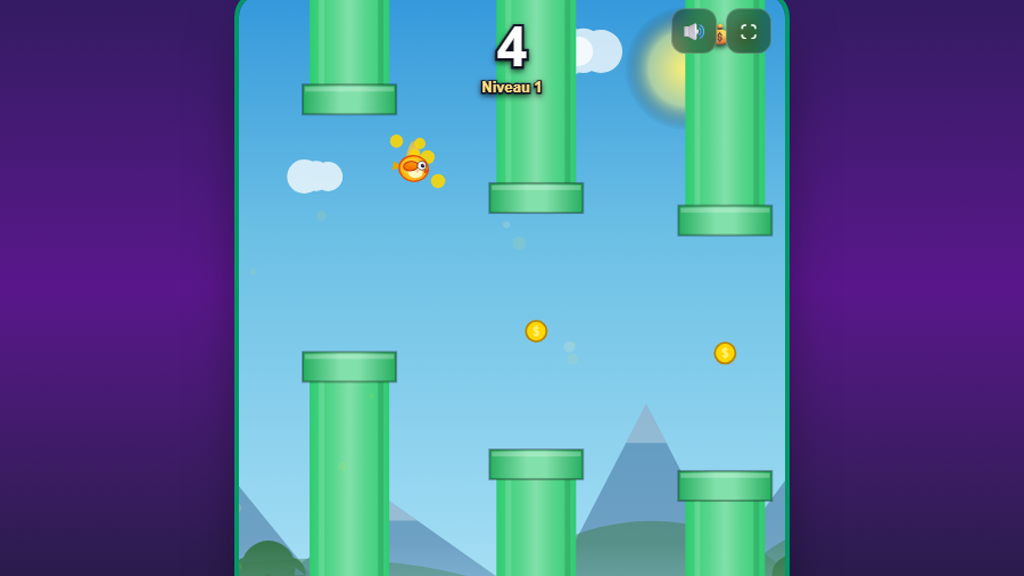
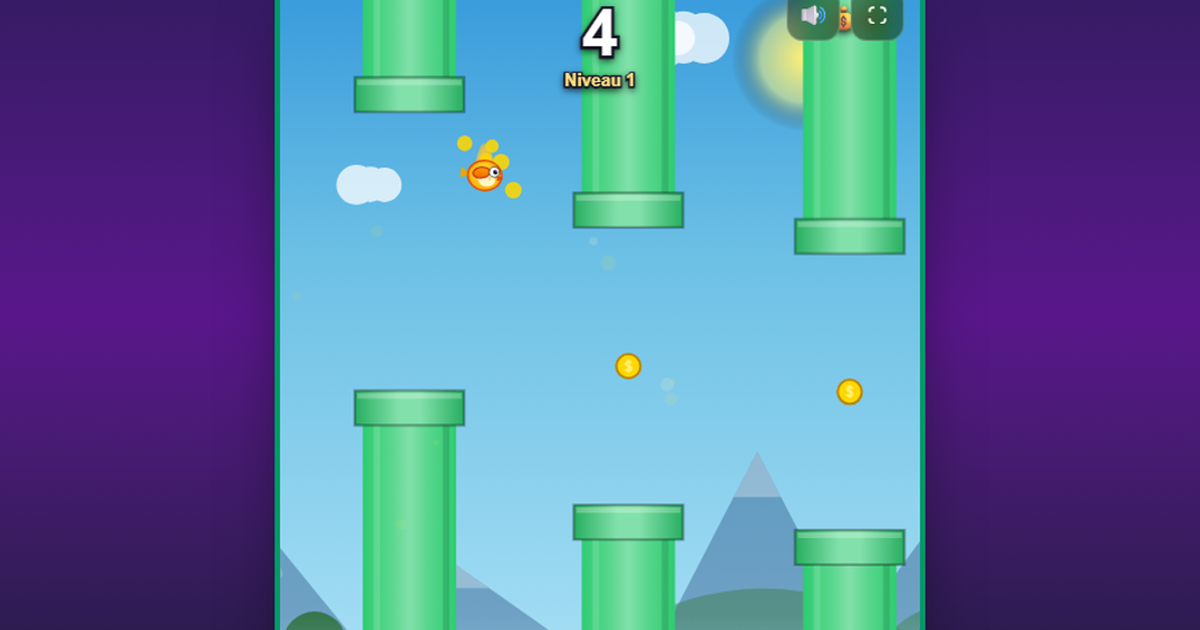
Open Graph : image 1200 x 630 et metadonnees completes

diff --git a/index.html b/index.html
@@ -9,13 +9,17 @@
     <meta property="og:type" content="website" />
     <meta property="og:title" content="Piaf : ça vole pas haut" />
     <meta property="og:description" content="Un petit oiseau, des tuyaux, et vous qui appuyez sur espace au mauvais moment." />
-    <meta property="og:image" content="https://games.hylst.fr/piaf/og-image.png" />
+    <meta property="og:image" content="https://games.hylst.fr/piaf/og-image.png?v=2" />
+    <meta property="og:image:type" content="image/png" />
+    <meta property="og:image:width" content="1200" />
+    <meta property="og:image:height" content="630" />
+    <meta property="og:image:alt" content="Piaf" />
     <meta property="og:url" content="https://games.hylst.fr/piaf/" />
     <meta property="og:site_name" content="Hylst.Games" />
     <meta name="twitter:card" content="summary_large_image" />
     <meta name="twitter:title" content="Piaf : ça vole pas haut" />
     <meta name="twitter:description" content="Un petit oiseau, des tuyaux, et vous qui appuyez sur espace au mauvais moment." />
-    <meta name="twitter:image" content="https://games.hylst.fr/piaf/og-image.png" />
+    <meta name="twitter:image" content="https://games.hylst.fr/piaf/og-image.png?v=2" />
     <meta name="robots" content="index, follow" />
     <link rel="canonical" href="https://games.hylst.fr/piaf/" />
     <link rel="icon" type="image/png" href="favicon.png" />
